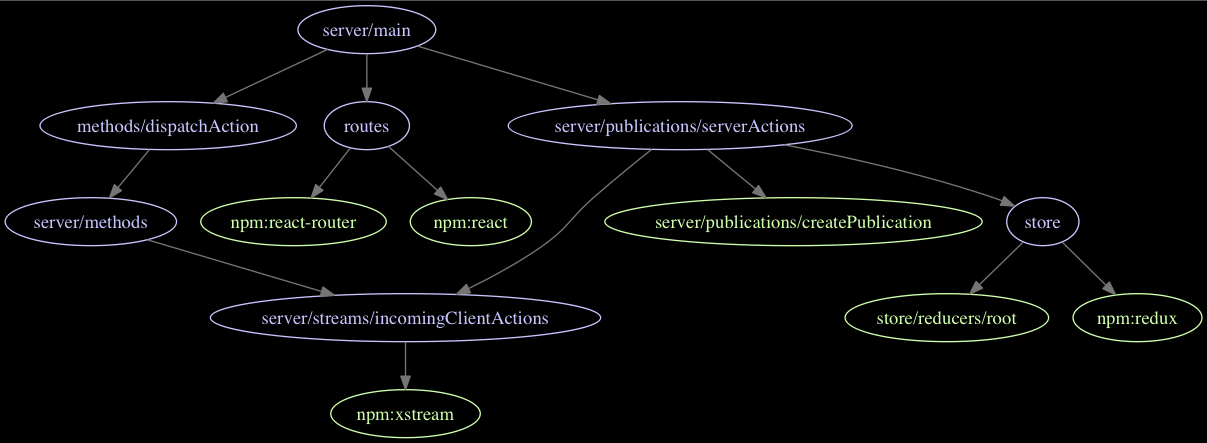
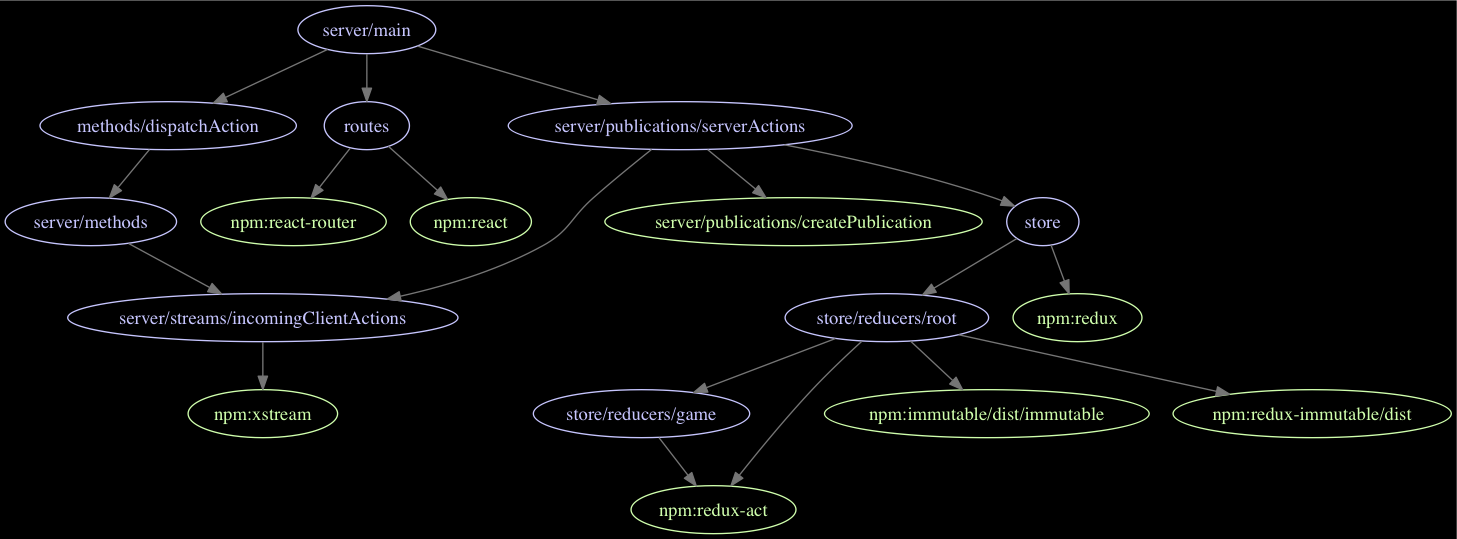
client dispatches received actions to its store; store is immutable store is created with devtools connection reset reducer allows for full reset (only on client)

diff --git a/imports/store/reducers/root.js b/imports/store/reducers/root.js
@@ -1,0 +1,29 @@
+import { Meteor } from 'meteor/meteor'
+import { fromJS } from 'immutable'
+import { combineReducers } from 'redux-immutable'
+import { createReducer } from 'redux-act'
+import * as Game from './game'
+
+let initialState = fromJS(Meteor.isClient ? {} : Game.initialState)
+let stateReducer = combineReducers({
+  game: createReducer({}, initialState)
+})
+
+// eslint-disable-next-line import/no-mutable-exports
+let reducer = stateReducer
+
+// the client can allow its state to be fully reset
+if (Meteor.isClient) {
+  // eslint-disable-next-line global-require
+  let { resetAction } = require('./client/reset')
+  // intercept RESET events; allow others to be handled normally
+  let resetReducer = (state, action) => {
+    if (resetAction.toString() === action.type) {
+      return fromJS(action.payload)
+    }
+    return stateReducer(state, action)
+  }
+  reducer = resetReducer
+}
+
+export default reducer

diff --git a/imports/server/publications/serverActions.js b/imports/server/publications/serverActions.js
@@ -1,12 +1,13 @@
 import { Mongo } from 'meteor/mongo'
-import { store } from '/imports/store/store'
+import store from '/imports/store/store'
 import { createPublication } from './createPublication'
 import incomingClientActions from '../streams/incomingClientActions'
 
 // Note - Mergebox will not publish events that are dupes of previous ones, thus the
 // inclusion of always-unique ObjectIDs on messages
 createPublication('serverActions', ({ connection, added, error, ready, onStop }) => {
-  console.log(`got subscriber ${connection.id}`)
+  console.log(`got subscriber ${connection.id}, and sending them our state`)
+  added('serverActions', new Mongo.ObjectID(), { type: 'RESET', payload: store.getState().toJS() })
 
   let subscriberListener = {
     next: action => {

diff --git a/imports/test/spec.test.js b/imports/test/spec.test.js
@@ -42,12 +42,28 @@ Meteor.atServer(() => {
   describe('serverActions publication', () => {
     it('is published')
     it('publishes events from clientUpdatesStream')
+    it('publishes the server state to newly connected clients')
   })
 })
 
 Meteor.atClient(() => {
   describe('serverActionsStream', () => {
     it('has a listener for dispatching events to the store')
+  })
+})
+
+Meteor.atClient(() => {
+  describe('serverActionsReceiver', () => {
+    it('dispatches actions to the store')
+  })
+})
+
+describe('The store', () => {
+  it('is initialized, and will remain, an immutable Map')
+
+  Meteor.atClient(() => {
+    it('starts empty')
+    it('accepts a RESET action')
   })
 })
 

diff --git a/imports/client/serverActionsReceiver.js b/imports/client/serverActionsReceiver.js
@@ -2,7 +2,12 @@ import serverActionsStream from './streams/serverActionsStream'
 import store from '../store/store'
 
 serverActionsStream.addListener({
-  next: (a) => console.log('TODO update store with', a),
+  next: (a) => {
+    console.log('Updating client store with', a)
+    store.dispatch(a)
+  },
   error: () => {},
   complete: () => {}
 })
+
+window.store = store

diff --git a/imports/store/store.js b/imports/store/store.js
@@ -1,2 +1,13 @@
+import { Meteor } from 'meteor/meteor'
 import { createStore, combineReducers } from 'redux'
 import reducer from './reducers/root'
+
+let storeFactory = createStore
+
+if (Meteor.isClient) {
+  if (window.devToolsExtension) {
+    storeFactory = window.devToolsExtension()(createStore)
+  }
+}
+
+export default storeFactory(reducer)

diff --git a/imports/client/methods.js b/imports/client/methods.js
@@ -1,3 +1,3 @@
-import store from '../store/store'
-
-export const preDispatch = (action) => console.log(`Handling ${action.type} on client`)
+export const preDispatch = (action) => {
+  console.log(`Dispatching ${action.type} action to server`)
+}

diff --git a/imports/store/reducers/game.js b/imports/store/reducers/game.js
@@ -1,0 +1,9 @@
+import { createAction } from 'redux-act'
+
+export const initialState = {
+  name: 'Meteor Redux Trivia',
+  players: [],
+  questions: []
+}
+export const actionReducers = {}
+export const actions = {}

diff --git a/imports/store/reducers/client/reset.js b/imports/store/reducers/client/reset.js
@@ -1,0 +1,3 @@
+import { createAction } from 'redux-act'
+
+export const resetAction = createAction('RESET')

diff --git a/scripts/tweak-deps.rb b/scripts/tweak-deps.rb
@@ -49,6 +49,7 @@ tweaked = deps.inject({}){ |all, (mod, deps)|
 
 # invisible ones
 tweaked['methods/dispatchAction'] << 'client/methods' << 'server/methods'
+tweaked['store/reducers/root'] << 'store/reducers/client/reset'
 
 exclude && tweaked.each{ |mod, deps| deps.reject!{ |d| d.include?(exclude) } }
 
